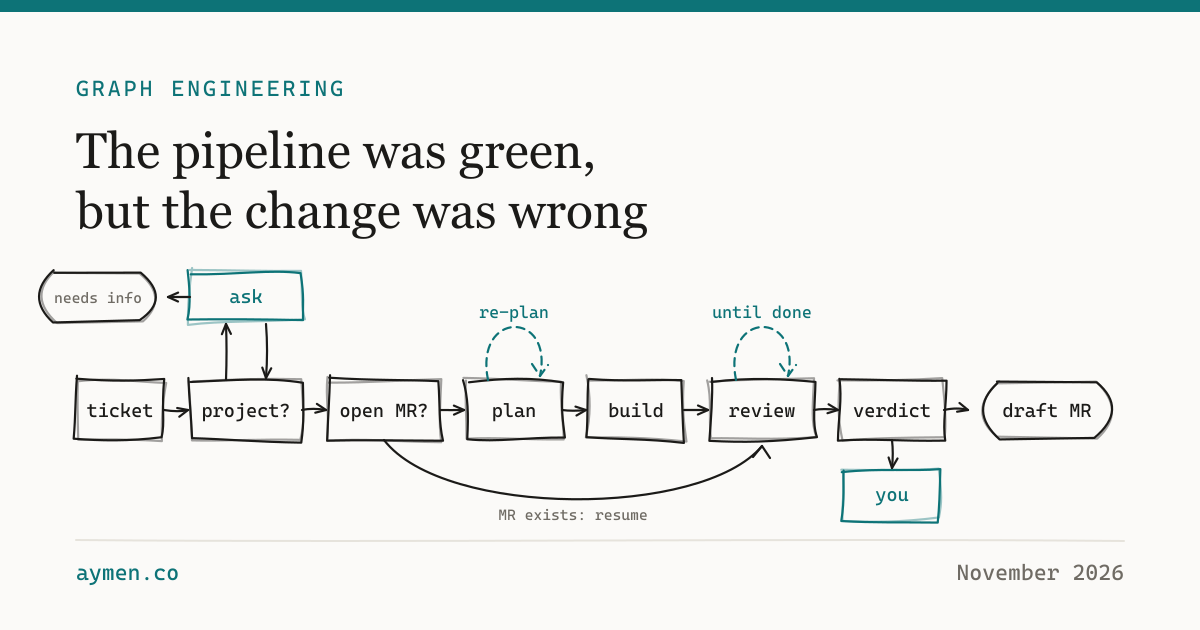
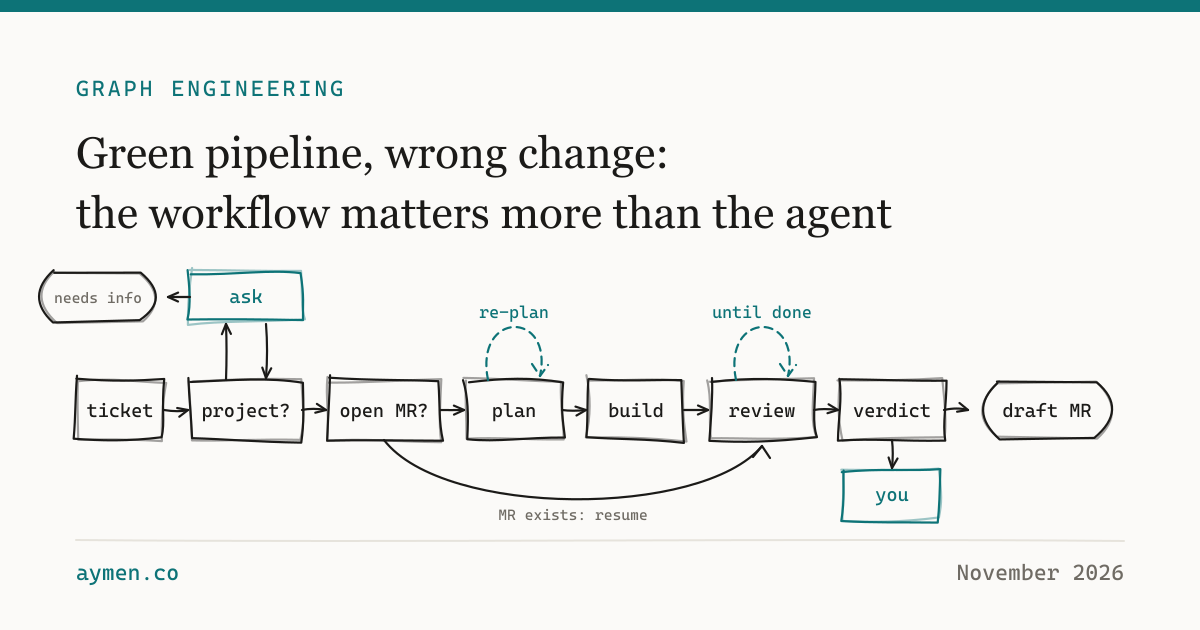
Put workflow and agent in the title

Changed region(s): [[0.0617, 0.2111, 0.74, 0.3921]]

diff --git a/site/posts/where-the-leverage-went.md b/site/posts/where-the-leverage-went.md
@@ -1,5 +1,5 @@
 ---
-title: "The pipeline was green, but the change was wrong"
+title: "Green pipeline, wrong change: the workflow matters more than the agent"
 seoTitle: "Graph engineering: why the workflow around an AI agent matters more than the agent"
 date: 2026-11-23
 categories: ["ai"]
